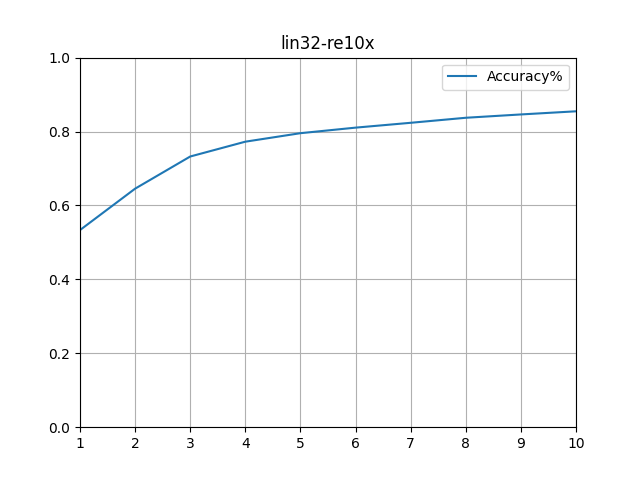
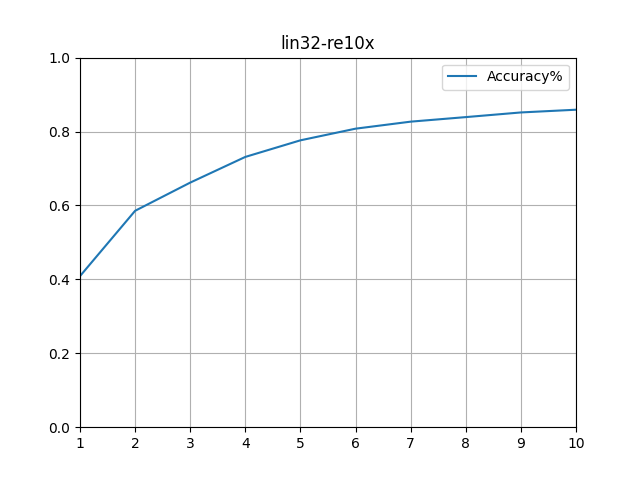
Push screenshot update readme

diff --git a/README.md b/README.md
@@ -1,2 +1,7 @@
 # python-handwritten-digits
-Detect handwritten digits with Torch in Python
+
+![](/screenshot.png)
+
+Detect handwritten digits with Torch in Python. Uses various shitty linear models to justify moving to convolution neural networks later on. Best accuracy with a 512 to 32 linear model is 85% on MNIST data set. An experimentation ground for detecting handwritten digits, and kind-of hello world for using pytorch.
+
+Comes with an interactive drawing tool written in *Raylib*, and is one big notebook.
